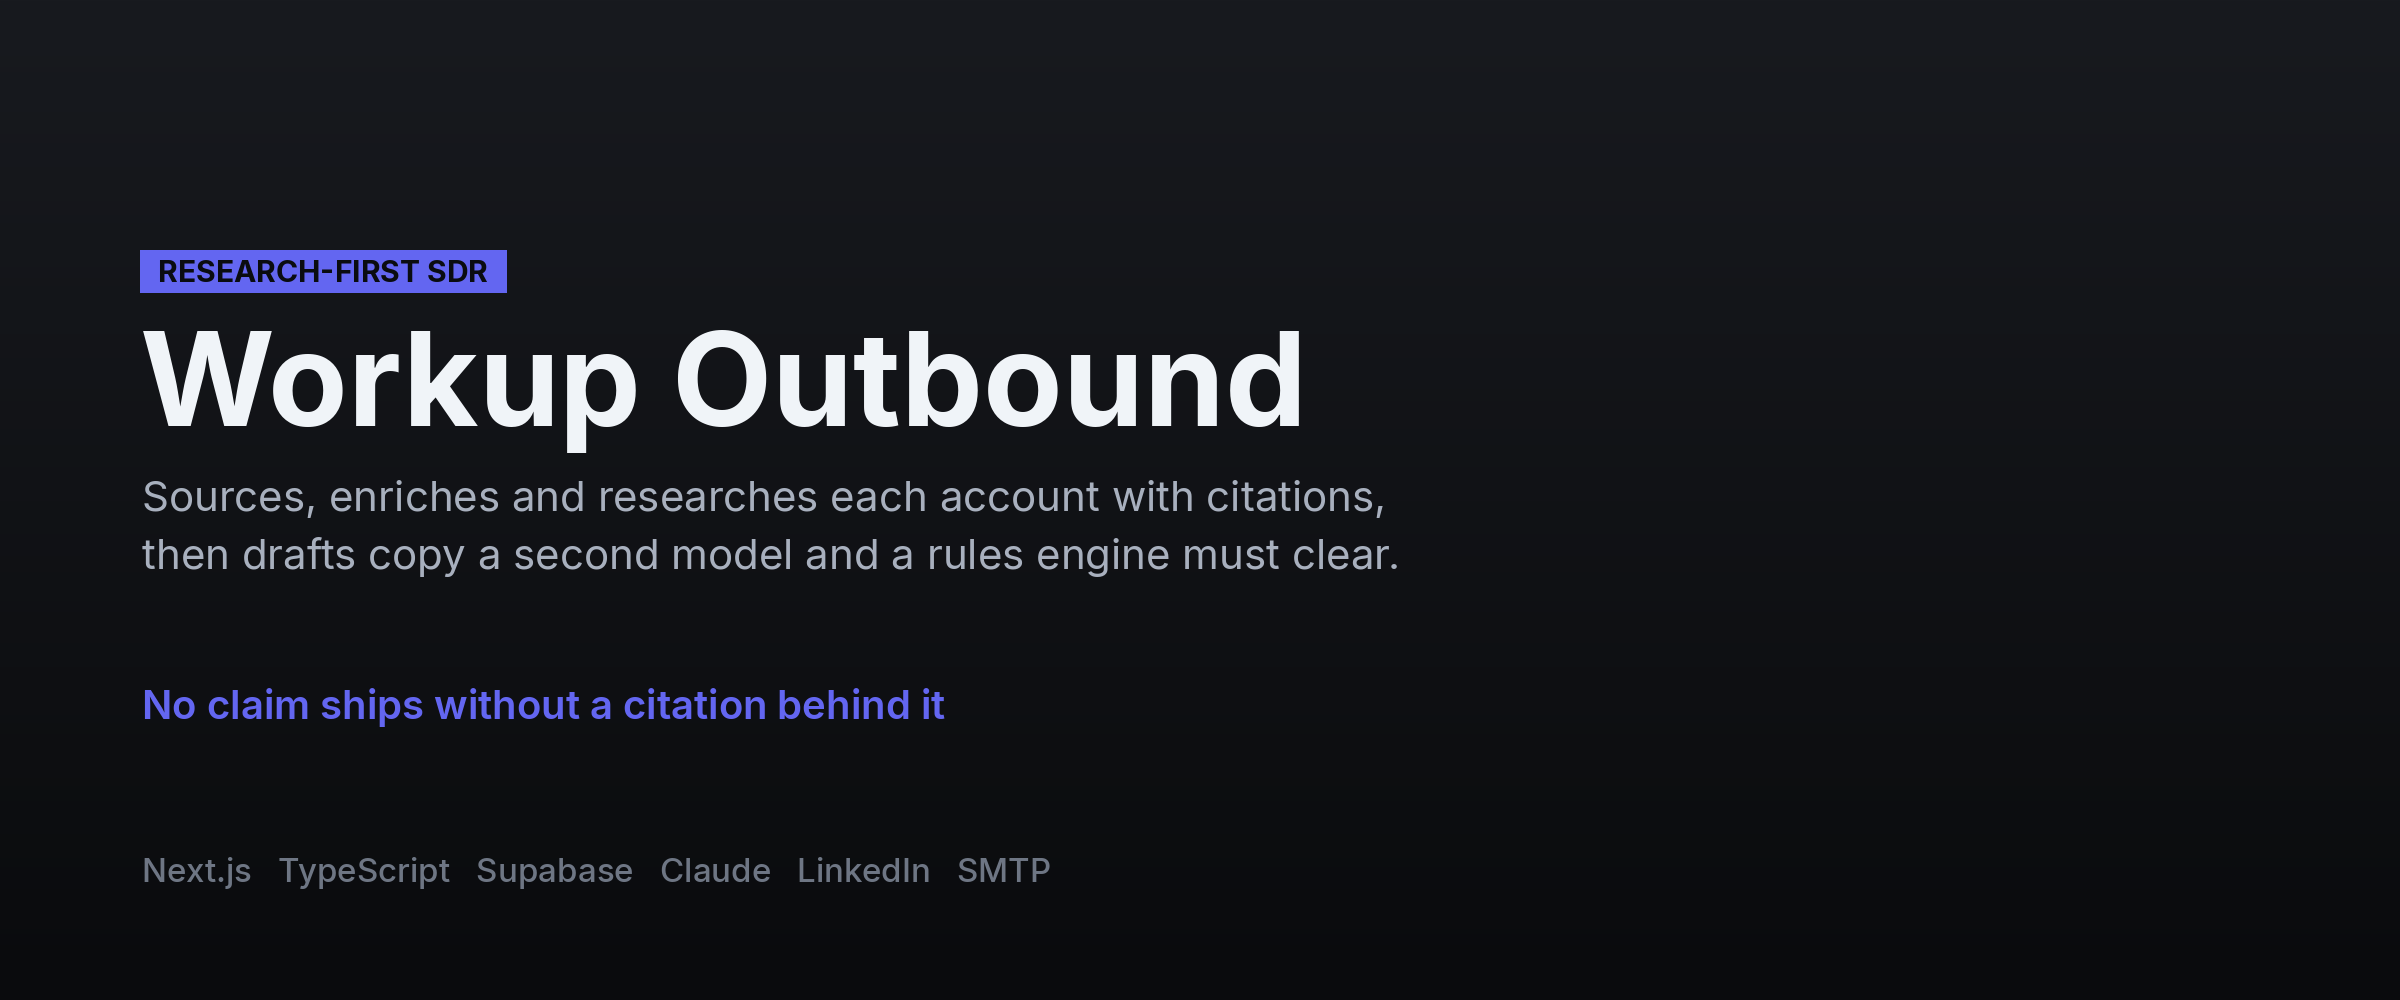
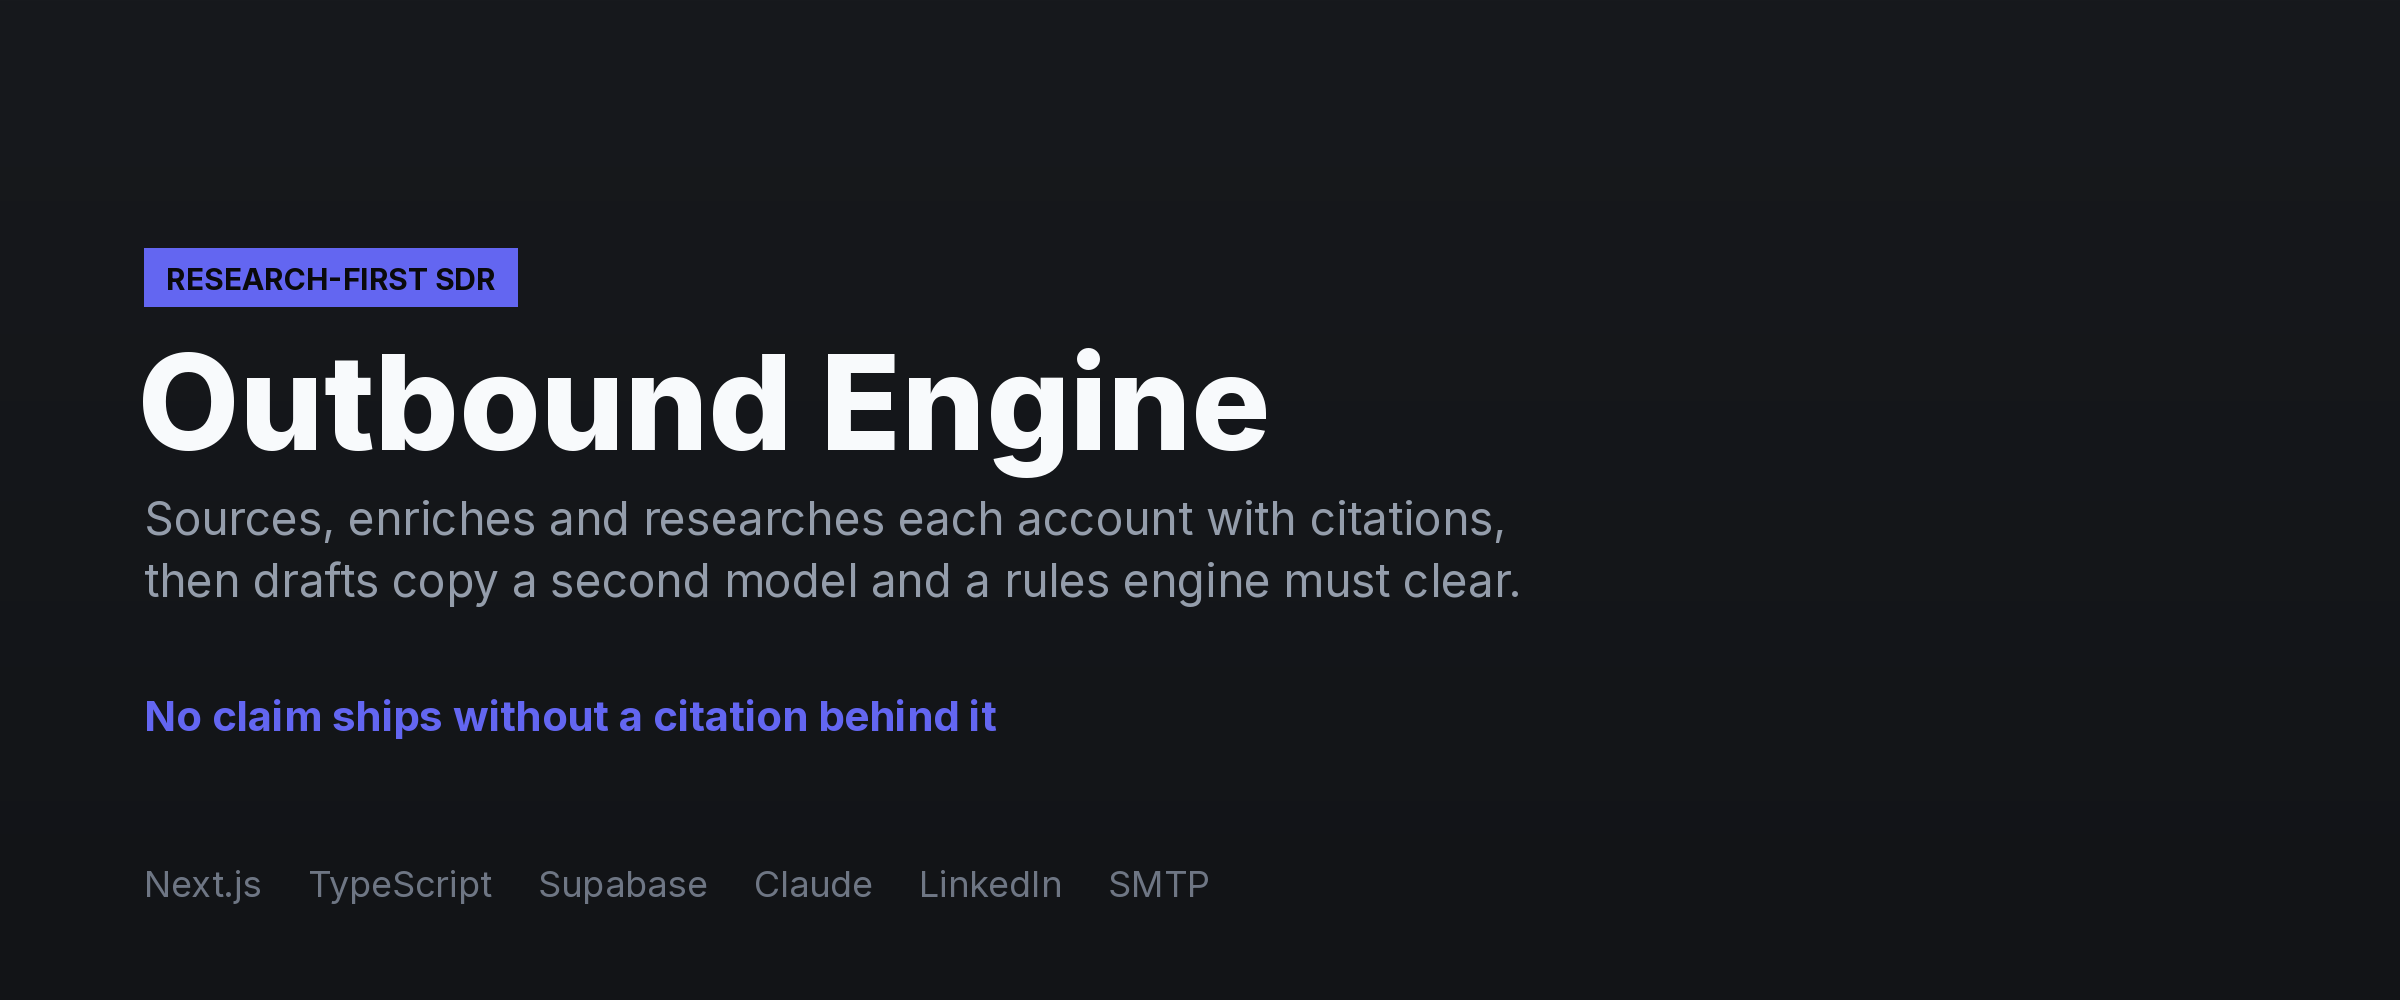
Cover art and copy: drop internal product naming and the demo link

Changed region(s): [[0.0625, 0.248, 0.625, 0.62], [0.0625, 0.682, 0.4062, 0.744], [0.0625, 0.837, 0.5, 0.899]]

diff --git a/README.md b/README.md
@@ -11,7 +11,7 @@ Built under the client's own accounts.
 
 working checker playground). **Spec:** [SPEC.md](SPEC.md)
 
-🟢 **Live demo:** https://workup-outbound.vercel.app · **Source:** private, available on request
+**Source:** private, available on request
 
 ## Dashboard
 
@@ -50,7 +50,7 @@ drop decisions; adversarial checker tests. Langfuse traces every model call.
 
 ## A note on what you can see here
 
-The live demo runs on **seeded demo data** — a fictional tenant and synthetic records throughout. No client data appears in the demo or in this repository, and the implementation is private.
+Screenshots in this repository use **seeded demo data** — a fictional tenant and synthetic records throughout. No client data appears in this repository, and the implementation is private.
 
 ---
 <sub>Part of the <a href="https://github.com/musabqazi">musabqazi portfolio</a> · source private. © 2026 Musab Qazi</sub>
